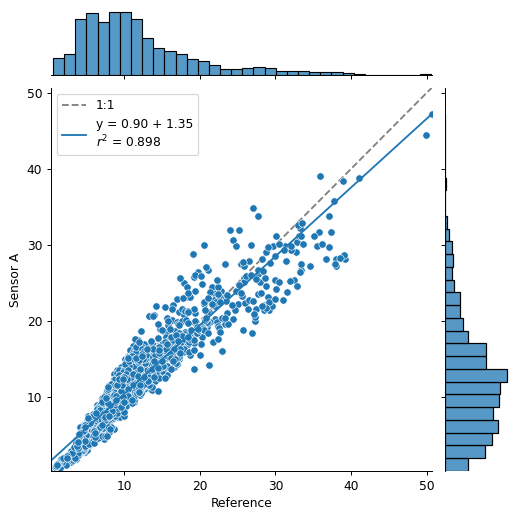
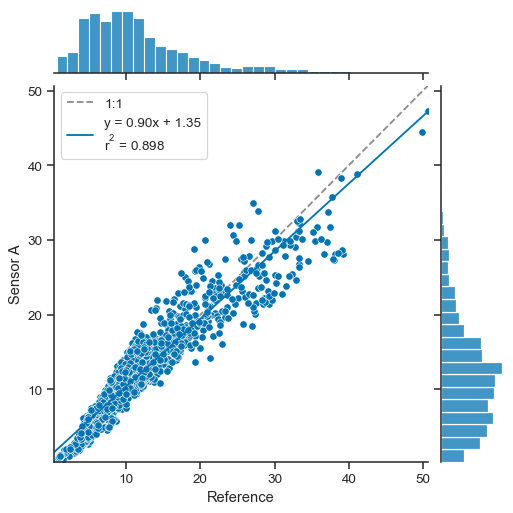
Updated docs structure and added gh-action

diff --git a/docs/examples/pollution_rose.py b/docs/examples/pollution_rose.py
@@ -2,7 +2,7 @@
 Pollution Rose
 ==============
 
-_thumb: .6, .2
+_thumb: .8, .8
 """
 import atmospy
 atmospy.set_theme()

diff --git a/docs/examples/dielplot.py b/docs/examples/dielplot.py
@@ -2,7 +2,7 @@
 Diurnal Ozone
 =============
 
-_thumb: .4, .4
+_thumb: .8, .8
 """
 import atmospy
 import pandas as pd

diff --git a/docs/tutorial/plots.rst b/docs/tutorial/plots.rst
@@ -5,28 +5,104 @@
 Plotting Functions
 ===================
 
-Seaborn is a library for making statistical graphics in Python. It builds on top of `matplotlib <https://matplotlib.org/>`_ and integrates closely with `pandas <https://pandas.pydata.org/>`_ data structures.
-
-Seaborn helps you explore and understand your data. Its plotting functions operate on dataframes and arrays containing whole datasets and internally perform the necessary semantic mapping and statistical aggregation to produce informative plots. Its dataset-oriented, declarative API lets you focus on what the different elements of your plots mean, rather than on the details of how to draw them.
-
-Here's an example of what seaborn can do:
-
-Comparing Data from Multiple Sensors
-------------------------------------
+Atmospy is a library for making useful, professional figures for atmospheric chemistry and air 
+quality professionals. It is built on top of `matplotlib <https://matplotlib.org/>`_, 
+`pandas <https://pandas.pydata.org/>`_, and `seaborn <https://seaborn.pydata.org>`_. Below, 
+we will walk through examples of how to use atmospy and how you can extend it with 
+seaborn and matplotlib.
 
 .. code:: ipython3
 
     import atmospy
+    import pandas as pd
+    import numpy as np
+    import seaborn as sns
+    import matplotlib.pyplot as plt
     
-    df = atmospy.load_dataset("air-sensors-pm")
+    atmospy.set_theme()
+
+Comparing Data from Multiple Sensors
+------------------------------------
+
+Often, we find the need to compare multiple variables against one
+another. In the air sensor world, this may be the regression of two
+variables against one another or one air sensor against a reference
+sensor. Using the ``atmospy.regplot``, we can easily plot the regression
+between two variables, fit a linear model, and display the fit
+parameters on the figure itself:
 
 .. code:: ipython3
 
-    atmospy.regplot(df, x="Reference", y="Sensor A")
+    df = atmospy.load_dataset("air-sensors-pm")
+    
+    # plot the Reference measurement vs Sensor A using defaults
+    atmospy.regplot(df, x="Reference", y="Sensor A");
 
 
 
 .. image:: plots_files/plots_3_0.png
+
+
+Under the hood, ``atmospy.regplot`` is simply making a call to seaborn’s
+``jointplot`` function with a few added pieces including adding a unity
+line and displaying the fit parameters for the linear model in the
+legend.
+
+The call returns a seaborn ``JointGrid`` which is a group of subplots.
+As seen above, the joint axis shows the relationship between the two
+variables with a unity line (1:1), the best fit line (shown in solid
+blue above), and the distributions for each variables shown on the
+marginal axes.
+
+If for some reason, you *don’t* want to fit a linear model to the data,
+you can turn that functionality off by setting ``fit_reg=False``:
+
+.. code:: ipython3
+
+    atmospy.regplot(df, x="Reference", y="Sensor A", fit_reg=False);
+
+
+
+.. image:: plots_files/plots_5_0.png
+
+
+Because we’re just making a call to seaborn’s ``jointplot`` function,
+you can send along most configuration options as keyword arguments to
+``atmospy.regplot``. For example, if you wanted to change what is shown
+on the marginal axes, you can:
+
+.. code:: ipython3
+
+    atmospy.regplot(df, x="Reference", y="Sensor A", marginal_kws={"bins": 25, "fill": False});
+
+
+
+.. image:: plots_files/plots_7_0.png
+
+
+A ``JointGrid`` object is returned, which allows you to continue
+customizing as you’d like:
+
+.. code:: ipython3
+
+    g = atmospy.regplot(df, x="Reference", y="Sensor A")
+    g.plot_marginals(sns.rugplot, color='r', height=-0.15, clip_on=False);
+
+
+
+.. image:: plots_files/plots_9_0.png
+
+
+You can easily edit the marker choice, color of marker, or anything else
+as well:
+
+.. code:: ipython3
+
+    atmospy.regplot(df, x="Reference", y="Sensor A", color='g', marker="^", alpha=.15);
+
+
+
+.. image:: plots_files/plots_11_0.png
 
 
 Evaluating Trends
@@ -49,7 +125,7 @@ Evaluating Trends
 
 
 
-.. image:: plots_files/plots_5_1.png
+.. image:: plots_files/plots_13_1.png
 
 
 Identifying Sources
@@ -63,7 +139,7 @@ Identifying Sources
 
 
 
-.. image:: plots_files/plots_7_0.png
+.. image:: plots_files/plots_15_0.png
 
 
 -  Comparing data
